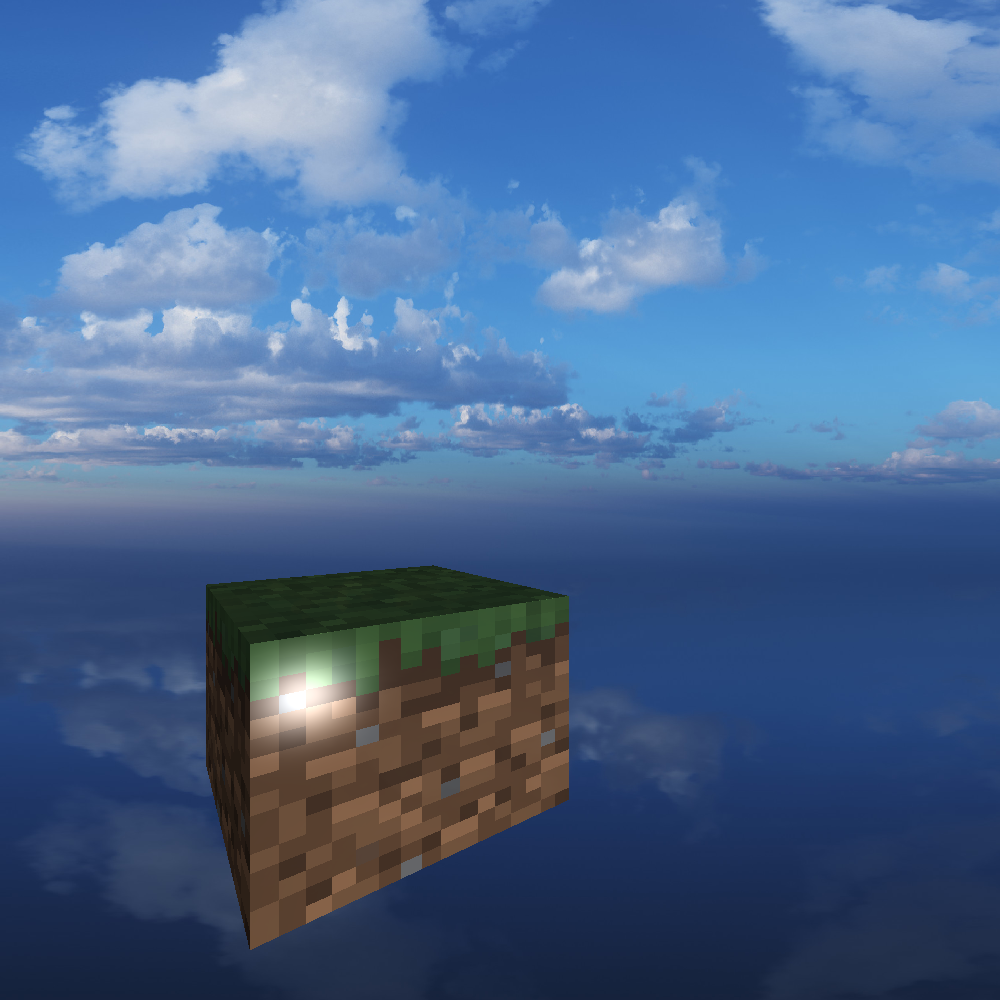
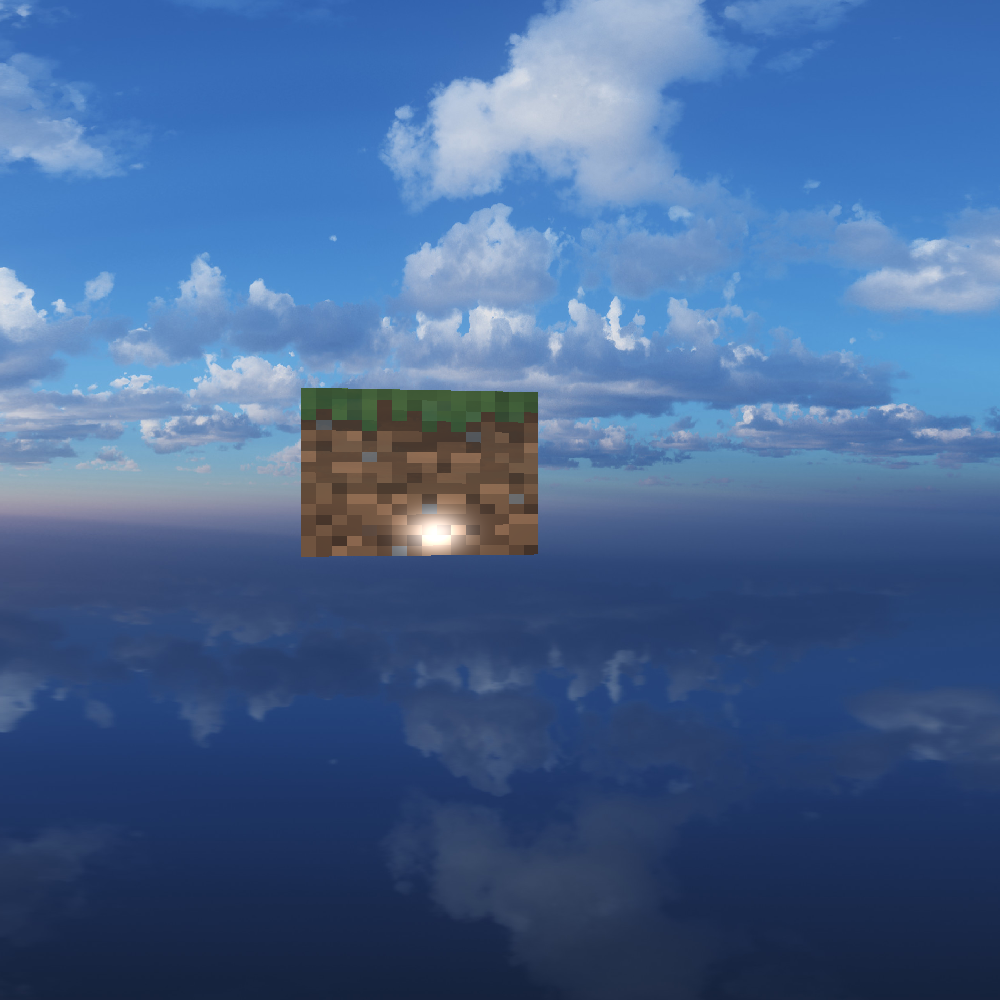
temp

diff --git a/dev/src/render/rasterizer.c b/dev/src/render/rasterizer.c
@@ -1,7 +1,6 @@
 #include "../../include/render/bbox_rasterizer.h"
 
-void rasterize_bbox(mesh* m, rendering_params* rdp, int* pixels){
-    bbox* b = m->box;
+void rasterize_bbox(bbox* b, rendering_params* rdp, int* pixels){
 
     //rasterize the bbox
     float p1[3] = {b->min[0], b->min[1], b->min[2]};
@@ -65,10 +64,25 @@ void rasterize_bbox(mesh* m, rendering_params* rdp, int* pixels){
 
 }
 
+// void rasterize_sphere(sphere* s, rendering_params* rdp, int* pixels){
+//     float dir[3];
+//     minus(s->pos, rdp->cam->pos, dir);
+//     normalize(dir, dir);
+//     float proj = project(dir, rdp->topDir);
+//     if(proj < 0)
+//         return;
+//     scale(dir, 1/proj, dir);   
+//     float rproj = project(dir, rdp->rightDir)+0.5;
+//     float tproj = project(dir, rdp->topDir)+0.5;;
+//     rproj+tproj;
+// }
+
 void render_rasterize_bbox(rendering_params* rdp, int* pixels){
     world* w = rdp->w;
     for(int i = 0; i < w->size_meshes; i++){
-        rasterize_bbox(w->meshes[i], rdp, pixels);
+        rasterize_bbox(w->meshes[i]->box, rdp, pixels);
     }
-    
+    // for(int i = 0; i < w->size_lights; i++){
+    //     rasterize_sphere(w->lights[i]->s, rdp, pixels);
+    // }
 }

diff --git a/dev/src/main.c b/dev/src/main.c
@@ -29,11 +29,11 @@ int main(){
     // add_sphere(wd, s);
     // CHALLENGE : load_object("assets/objs/bunny.obj", wd, 10, (float[]){0,0,0}, .1);
     //1166 875 -> 388, 218
-    load_object("./assets/objs/grass.obj", wd, 1, (float[]){0,0,0}, "./assets/textures/grass.png", def_mat(1,1,1,100,.1));
+    load_object("./assets/objs/grass.obj", wd, 1, (float[]){0,-1,0}, "./assets/textures/grass.png", def_mat(1,1,1,100,.1));
     //load_object("./assets/objs/katana.obj", wd, 4, (float[]){0,0,0}, "./assets/textures/katana.png", 0);
     //light* lt = init_light((float[]){0,3,0}, illum(1,1,1,1.2));
     //add_light(wd, lt);
-    light* lt2 = init_light((float[]){-4,0,0}, (float[]){1,1,1});
+    light* lt2 = init_light((float[]){-3,0,0}, (float[]){1,1,1});
     add_light(wd, lt2);
 
     printf("World object count: %d \n", wd->size_meshes);
@@ -42,4 +42,4 @@ int main(){
     free_window(&params);
     free_world(wd);
     return 0;
-}
+}   

diff --git a/dev/src/render/render.c b/dev/src/render/render.c
@@ -36,6 +36,13 @@ void ray_cast(raycast_param* rcp){
         r->current_mesh = NULL;
         sphere_render(s, r);
     }
+    if(rcp->show_lights){
+        for(int i = 0; i < w->size_lights; i++){
+            light* l = w->lights[i];
+            r->current_mesh = NULL;
+            sphere_render(l->s, r);
+        }
+    }
     if(r->last_hit != NULL){
         reflection(rcp);
         shadow_render(rcp);

diff --git a/dev/src/window/renderer.c b/dev/src/window/renderer.c
@@ -24,6 +24,7 @@ void render_screen(rendering_params* rdp)
     for(int i = 0; i < width*height; i++){
         ray r = create_ray_interpolate(rdp, i%width, i/width);
         raycast_param* rcp = init_raycast_param(&r, rdp->w, rdp->reflection, rdp->shadow, 0);
+        rcp->show_lights = 1;
         rcp->compute_meshes = pixels_rasterize[i];
         ray_cast(rcp);
         if(r.last_hit != NULL){

diff --git a/dev/src/architecture/light.c b/dev/src/architecture/light.c
@@ -5,5 +5,12 @@ light* init_light(float pos[3], float color[3]){
     light* lt = calloc(sizeof(light), 1);
     copy(pos, lt->pos);
     copy(color, lt->color);
+    sphere* s = sphere_init(pos[0], pos[1], pos[2], 0.1, create_mat_from_color(color[0], color[1], color[2]));
+    copy(s, lt->s);
     return lt;
+}
+
+void free_light(light* lt){
+    free(lt->s);
+    free(lt);
 }

diff --git a/dev/include/architecture/light.h b/dev/include/architecture/light.h
@@ -3,12 +3,15 @@
 #include <stdlib.h>
 #include "../utils/daft_math.h"
 #include "./material.h"
+#include "./sphere.h"
 typedef struct light
 {
 	float color[3];
 	float pos[3];
+	sphere* s;
 }light;
 
 //init
 light* init_light(float pos[3], float color[3]);
+void free_light(light* lt);
 #endif

diff --git a/dev/src/architecture/world.c b/dev/src/architecture/world.c
@@ -10,7 +10,7 @@ void free_world(world* wd){
         free_mesh(wd->meshes[i]);
     }
     for(int i = 0; i < wd->size_lights; i++){
-        free(wd->lights[i]);
+        free_light(wd->lights[i]);
     }
     for(int i = 0; i < wd->size_cameras; i++){
         free(wd->cameras[i]);

diff --git a/dev/include/render/rendering_params.h b/dev/include/render/rendering_params.h
@@ -32,6 +32,8 @@ typedef struct raycast_param{
     int skybox;
     //the pixels that need to be computed for meshes
     int compute_meshes;
+    //if the ray should consider the lights points as spheres
+    int show_lights;
 } raycast_param;
 
 #endif

diff --git a/dev/src/render/rendering_tools.c b/dev/src/render/rendering_tools.c
@@ -27,5 +27,6 @@ raycast_param* init_raycast_param(ray* r, world* w, int reflection, int shadow, 
     rcp->shadow = shadow;
     rcp->skybox = skybox;
     rcp->compute_meshes = 1;
+    rcp->show_lights = 0;
     return rcp;
 }
